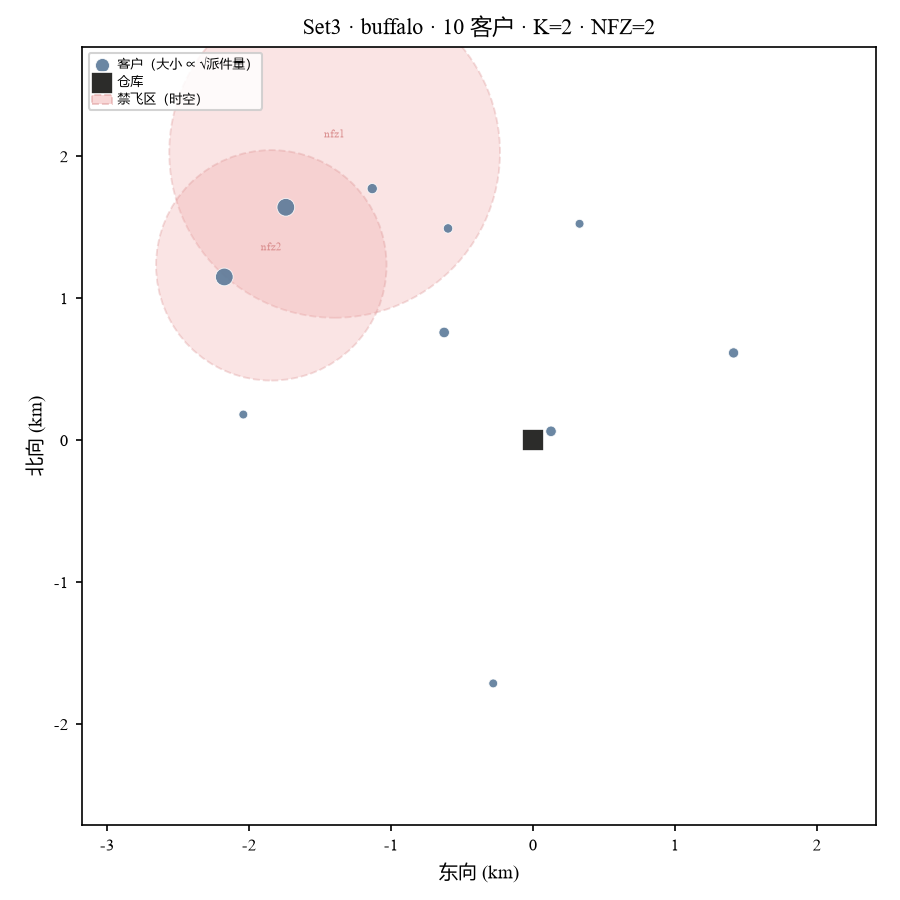
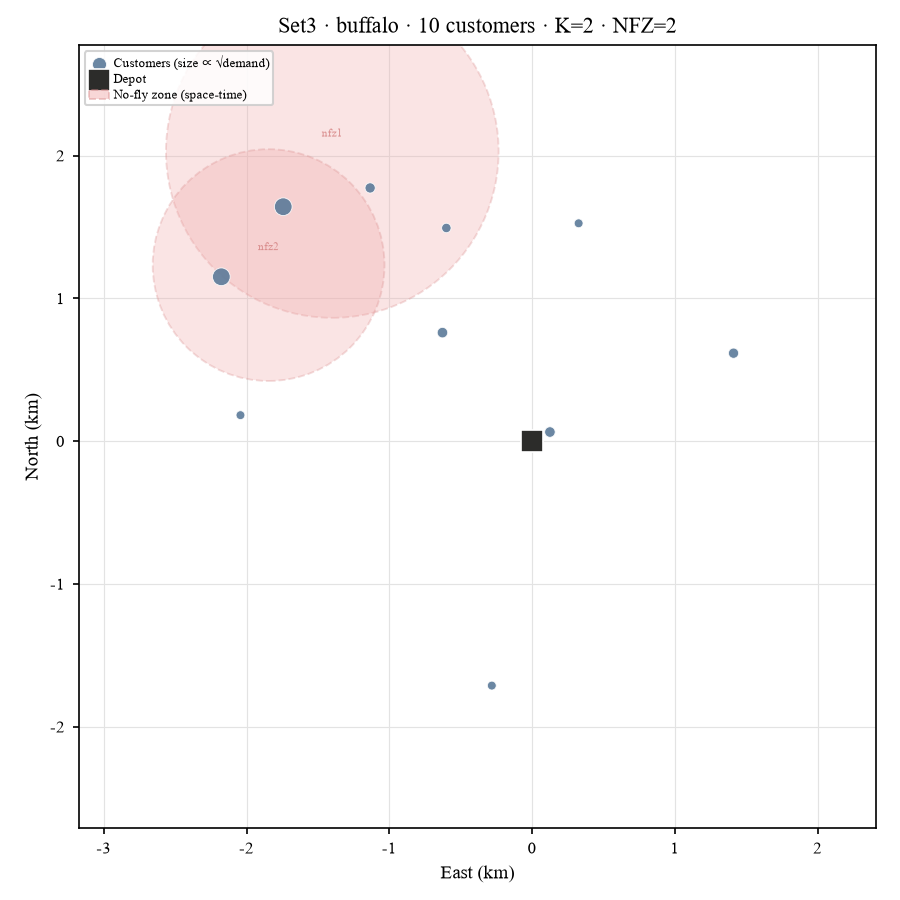
style: 图内文字全部改英文 + 背景加浅灰网格
- style.apply 默认开网格（浅灰 #E3E3E3，axes.axisbelow 压在曲线下）
- visualizer / plot_routes / compare_fig8 / style_preview 的标题、轴标签、图例全部英文：
  Truck k / Drone sorties / Truck-served customers / Depot / No-fly zone (space-time) /
  East (km) / North (km) / Ours SetX … cost …
- 与论文口径一致；代码注释与文档仍中文
- tests：补网格默认开 + axisbelow 断言；188 项快测全绿

diff --git a/src/visualizer.py b/src/visualizer.py
@@ -60,12 +60,11 @@ def _setup_axes(inst: Instance, ax, title: str | None) -> None:
     ax.set_xlim(lo[0], hi[0])
     ax.set_ylim(lo[1], hi[1])
     ax.set_aspect("equal", adjustable="box")
-    ax.grid(False)
-    ax.set_xlabel("东向 (km)")
-    ax.set_ylabel("北向 (km)")
+    ax.set_xlabel("East (km)")
+    ax.set_ylabel("North (km)")
     if title is None:
         title = (
-            f"Set{inst.set_id} · {inst.base.city} · {inst.n_customers} 客户 · "
+            f"Set{inst.set_id} · {inst.base.city} · {inst.n_customers} customers · "
             f"K={inst.n_trucks} · NFZ={len(inst.nfz)}"
         )
     ax.set_title(title)
@@ -87,17 +86,17 @@ def plot_network(inst: Instance, ax=None, title: str | None = None, legend: bool
     demand = inst.f[1:]
     sizes = 12 + 60 * np.sqrt(demand / max(demand.max(), 1e-9))
     ax.scatter(xy[1:, 0], xy[1:, 1], s=sizes, c=style.CUSTOMER, edgecolors="white",
-               linewidths=0.4, alpha=0.9, zorder=3, label="客户（大小 ∝ √派件量）")
+               linewidths=0.4, alpha=0.9, zorder=3, label="Customers (size ∝ √demand)")
 
     # 仓库
     ax.scatter(*xy[0], s=110, marker="s", c=style.DEPOT, edgecolors="white",
-               linewidths=0.8, zorder=4, label="仓库")
+               linewidths=0.8, zorder=4, label="Depot")
 
     if legend:
         nfz_proxy = Patch(facecolor=style.NFZ_FILL, alpha=0.45, edgecolor=style.NFZ_EDGE,
-                          linewidth=0.9, linestyle="--", label="禁飞区（时空）")
+                          linewidth=0.9, linestyle="--", label="No-fly zone (space-time)")
         handles, labels = ax.get_legend_handles_labels()
-        ax.legend(handles + [nfz_proxy], labels + ["禁飞区（时空）"],
+        ax.legend(handles + [nfz_proxy], labels + ["No-fly zone (space-time)"],
                   loc="upper left", fontsize=6, framealpha=0.85,
                   handletextpad=0.4, borderpad=0.3, labelspacing=0.3)
 
@@ -133,7 +132,7 @@ def plot_solution(
         xs = [inst.base.nodes[n].x / 1000.0 for n in r.nodes]
         ys = [inst.base.nodes[n].y / 1000.0 for n in r.nodes]
         ax.plot(xs, ys, color=c, linewidth=1.2, alpha=0.95, zorder=3,
-                solid_capstyle="round", label=f"卡车{r.truck}")
+                solid_capstyle="round", label=f"Truck {r.truck}")
         used += 1
 
         for s in r.sorties:
@@ -153,9 +152,9 @@ def plot_solution(
     if truck_served:
         idx = sorted(truck_served)
         ax.scatter(xy[idx, 0], xy[idx, 1], s=10, c=style.CUSTOMER, edgecolors="white",
-                   linewidths=0.4, zorder=5, label="卡车直服客户")
+                   linewidths=0.4, zorder=5, label="Truck-served customers")
     ax.scatter(*xy[0], s=70, marker="s", c=style.DEPOT, edgecolors="white",
-               linewidths=0.7, zorder=6, label="仓库")
+               linewidths=0.7, zorder=6, label="Depot")
 
     if legend:
         from matplotlib.lines import Line2D
@@ -170,18 +169,18 @@ def plot_solution(
                 handles.append(Line2D([], [], color="none", label="…"))
                 break
             handles.append(Line2D([], [], color=style.route_color(r.truck), linewidth=1.2,
-                                  label=f"卡车{r.truck}"))
+                                  label=f"Truck {r.truck}"))
             n_shown += 1
         handles.append(Line2D([], [], color="#888888", linewidth=0.9,
-                              linestyle=(0, (3, 2)), label="无人机架次"))
+                              linestyle=(0, (3, 2)), label="Drone sorties"))
         handles.append(Line2D([], [], color=style.CUSTOMER, marker="o", linestyle="none",
-                              markersize=3.5, label="卡车直服客户"))
+                              markersize=3.5, label="Truck-served customers"))
         handles.append(Line2D([], [], color=style.DEPOT, marker="s", linestyle="none",
-                              markersize=5, label="仓库"))
+                              markersize=5, label="Depot"))
         if inst.nfz:
             handles.append(Patch(facecolor=style.NFZ_FILL, alpha=0.45,
                                  edgecolor=style.NFZ_EDGE, linewidth=0.9,
-                                 linestyle="--", label="禁飞区（时空）"))
+                                 linestyle="--", label="No-fly zone (space-time)"))
         ax.legend(handles=handles, loc="upper left", fontsize=5.5, framealpha=0.95,
                   handletextpad=0.4, borderpad=0.3, labelspacing=0.25,
                   handlelength=1.6)

diff --git a/src/style.py b/src/style.py
@@ -18,7 +18,7 @@
 
 ## 画风（从图里量出来的）
 
-- 白底、**无网格**（Fig.9/10/11 都没有网格；Fig.11 有极浅的网格，接近看不见）
+- 白底 + 浅灰网格（Fig.11 里有极浅的网格；本项目按需求默认全开）
 - 四边都有黑色细脊线（box），刻度朝外、很短
 - 线条细（≈1.2 pt），标记是**小方块**（`s`），边长 ≈4 pt
 - 图例带细边框、字号小、标题行在框内（Fig.9 的 "Scaling Factor"）
@@ -53,7 +53,7 @@ NFZ_EDGE = "#D98C8C"
 CUSTOMER = "#5B7A99"      # 客户点：低饱和蓝灰，不与路线抢视觉
 DEPOT = "#2C2C2A"         # 仓库：近黑
 
-GRID = "#E8E8E8"          # Fig.11 那种"几乎看不见"的网格
+GRID = "#E3E3E3"          # 浅灰网格（比曲线浅两个档次）
 
 # 论文图里用的是衬线体（Times 那一路）。matplotlib ≥3.6 支持字体回退列表，
 # 所以拉丁字符走 Times New Roman、中文自动回退。
@@ -66,8 +66,8 @@ _FONT_SANS = ["Microsoft YaHei", "SimHei", "DejaVu Sans"]
 SERIF = True          # 想换成无衬线体改这里
 
 
-def apply(font_size: float = 9.0, grid: bool = False) -> None:
-    """套用论文画风。`grid=True` 只给 Fig.11 那种小图用。"""
+def apply(font_size: float = 9.0, grid: bool = True) -> None:
+    """套用论文画风。网格默认全开（浅灰实线，不抢曲线）。"""
     matplotlib.use("Agg", force=False)
     plt.rcParams.update({
         "font.serif": _FONT_SERIF,
@@ -100,8 +100,9 @@ def apply(font_size: float = 9.0, grid: bool = False) -> None:
         "lines.markeredgewidth": 0.6,
         "axes.grid": grid,
         "grid.color": GRID,
-        "grid.linewidth": 0.6,
+        "grid.linewidth": 0.55,
         "grid.linestyle": "-",
+        "axes.axisbelow": True,       # 网格压在曲线下面
         "legend.frameon": True,
         "legend.edgecolor": "#CCCCCC",
         "legend.framealpha": 1.0,

diff --git a/scripts/style_preview.py b/scripts/style_preview.py
@@ -58,14 +58,14 @@ def mock_single(ax, *, dashed: bool, title: str) -> None:
 
 def swatches(ax) -> None:
     ax.set_axis_off()
-    ax.set_title("论文配色（从 PDF 图中提取）", loc="left")
+    ax.set_title("Paper palette (extracted from the PDF)", loc="left")
     labels = [f"{h}  #{h.lstrip('#')}" for h in style.PALETTE]
     for i, (c, lab) in enumerate(zip(style.PALETTE, labels)):
         y = 0.86 - i * 0.17
         ax.add_patch(Rectangle((0.02, y), 0.12, 0.11, transform=ax.transAxes,
                                facecolor=c, edgecolor="#CCCCCC", linewidth=0.6))
         ax.text(0.18, y + 0.045, lab, transform=ax.transAxes, va="center", fontsize=8)
-    ax.text(0.02, 0.02, "橙 #EF8B4C 为单曲线图专用（Fig.11）", transform=ax.transAxes,
+    ax.text(0.02, 0.02, "Orange #EF8B4C: single-curve panels (Fig.11)", transform=ax.transAxes,
             fontsize=7, color="#666666")
 
 
@@ -81,7 +81,7 @@ def main() -> None:
     mock_single(ax1, dashed=False, title="Case 1 - Radius")
     ax2 = fig.add_subplot(gs[0, 2])
     swatches(ax2)
-    fig.suptitle("画风示意（数据为编造，仅用于核对线型/标记/图例）", fontsize=10)
+    fig.suptitle("Style preview (mock data, for line/marker/legend check only)", fontsize=10)
     out = OUT_DIR / "style_preview.png"
     fig.savefig(out, dpi=200, bbox_inches="tight")
     plt.close(fig)

diff --git a/scripts/compare_fig8.py b/scripts/compare_fig8.py
@@ -75,16 +75,16 @@ def main() -> None:
         ax_bot = axes[1, col]
         plot_solution(inst, sol, ax=ax_bot, legend=(sid != PICK[-1]))
         ax_bot.set_title(
-            f"本项目 Set{sid}  K={inst.n_trucks}  成本 {cost:.1f}", fontsize=9
+            f"Ours  Set{sid}  K={inst.n_trucks}  cost {cost:.1f}", fontsize=9
         )
 
         axes[0, col].set_title(
-            f"{inst.n_customers} 客户", fontsize=10, pad=4,
+            f"{inst.n_customers} customers", fontsize=10, pad=4,
         )
 
-    fig.text(0.02, 0.955, "论文 Fig.8（含路线）", fontsize=10, weight="normal")
-    fig.text(0.02, 0.475, "本项目：ALNS 求解结果（同配色同画风）", fontsize=10, weight="normal")
-    fig.suptitle("算例对照：论文 Fig.8 与本项目生成结果", fontsize=13, y=0.995)
+    fig.text(0.02, 0.955, "Paper Fig.8 (with routes)", fontsize=10)
+    fig.text(0.02, 0.475, "This project: ALNS solutions (same palette & style)", fontsize=10)
+    fig.suptitle("Instance comparison: paper Fig.8 vs. this project", fontsize=13, y=0.995)
 
     OUT.parent.mkdir(parents=True, exist_ok=True)
     fig.savefig(OUT, dpi=150, bbox_inches="tight")

diff --git a/scripts/plot_routes.py b/scripts/plot_routes.py
@@ -88,7 +88,7 @@ def main() -> None:
         sol, cost, cached = get_solution(inst, refresh=args.refresh)
         plot_solution(
             inst, sol, ax=ax,
-            title=f"Set{sid} · {inst.n_customers} 客户 · K={inst.n_trucks} · 成本 {cost:.1f}",
+            title=f"Set{sid} · {inst.n_customers} customers · K={inst.n_trucks} · cost {cost:.1f}",
         )
         tag = "缓存" if cached else "新解"
         print(f"Set{sid:2d} n={inst.n_customers:3d} 成本 {cost:9.2f}  [{tag}]")
@@ -96,7 +96,8 @@ def main() -> None:
     for ax in axes[n:]:
         ax.set_axis_off()
 
-    fig.suptitle("ALNS 求解结果：卡车实线（每车一色）+ 无人机虚线 + 时空禁飞区", fontsize=11)
+    fig.suptitle("ALNS solutions: truck routes (solid, one color per truck) + drone sorties (dashed) + no-fly zones",
+                 fontsize=11)
     fig.tight_layout(rect=(0, 0, 1, 0.97))
     out = FIG_DIR / ("routes_all.png" if args.all else "routes_fig8.png")
     out.parent.mkdir(parents=True, exist_ok=True)

diff --git a/tests/test_style.py b/tests/test_style.py
@@ -23,12 +23,14 @@ def test_调色板长度与去重():
     assert len(set(style.ROUTES)) >= 12          # 路线图要能分开十几条线
 
 
-def test_apply_设置字体族为列表():
+def test_apply_设置字体族为列表且默认开网格():
     """matplotlib 只在 font.family 是**列表**时才做逐字回退（中文靠这个）。"""
     style.apply()
     fam = plt.rcParams["font.family"]
     assert isinstance(fam, list) and len(fam) >= 2
     assert "SimSun" not in fam, "SimSun 内嵌点阵，小字号会渲染成空白"
+    assert plt.rcParams["axes.grid"] is True
+    assert plt.rcParams["axes.axisbelow"] is True
 
 
 def test_小字号中文能渲染出非零宽度():
